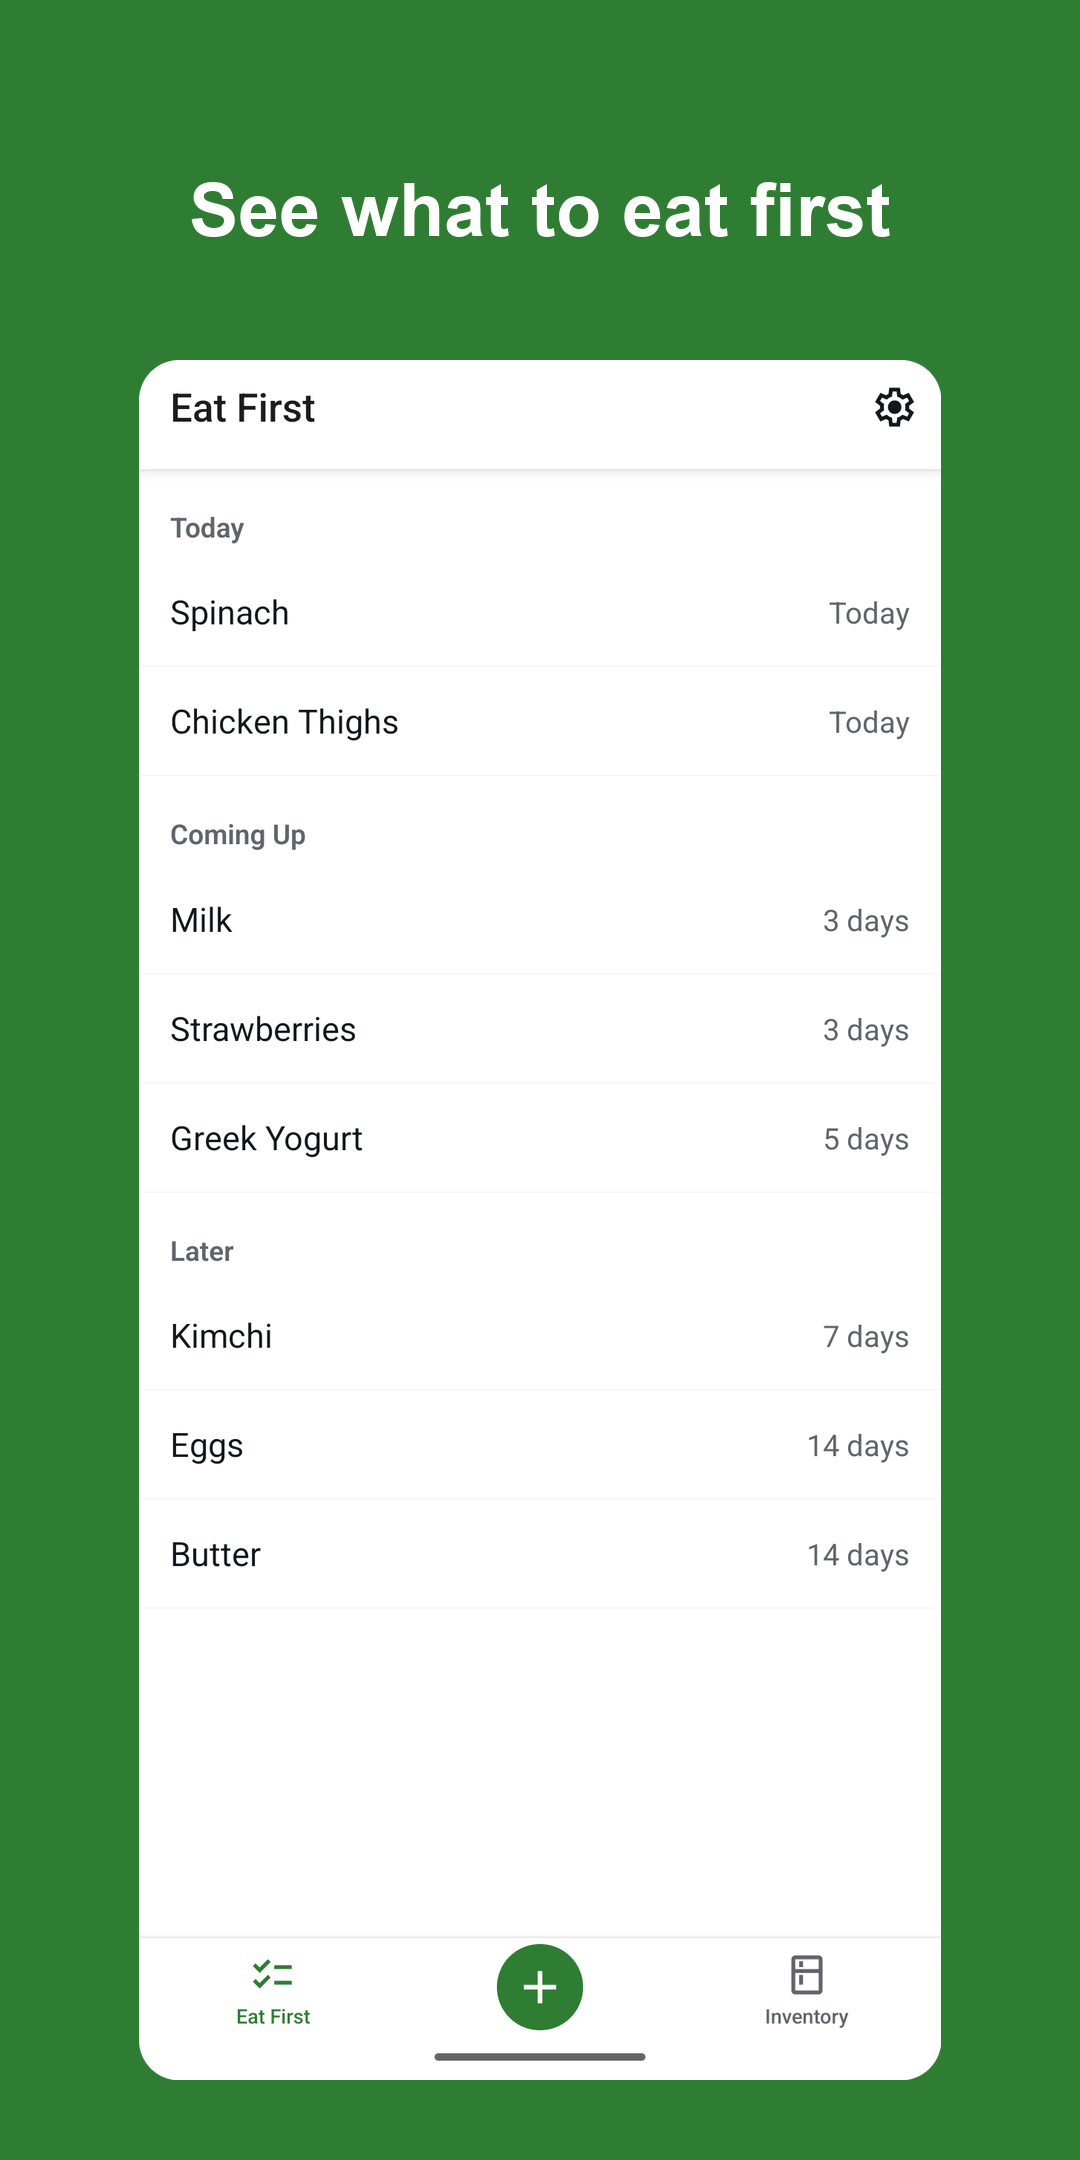
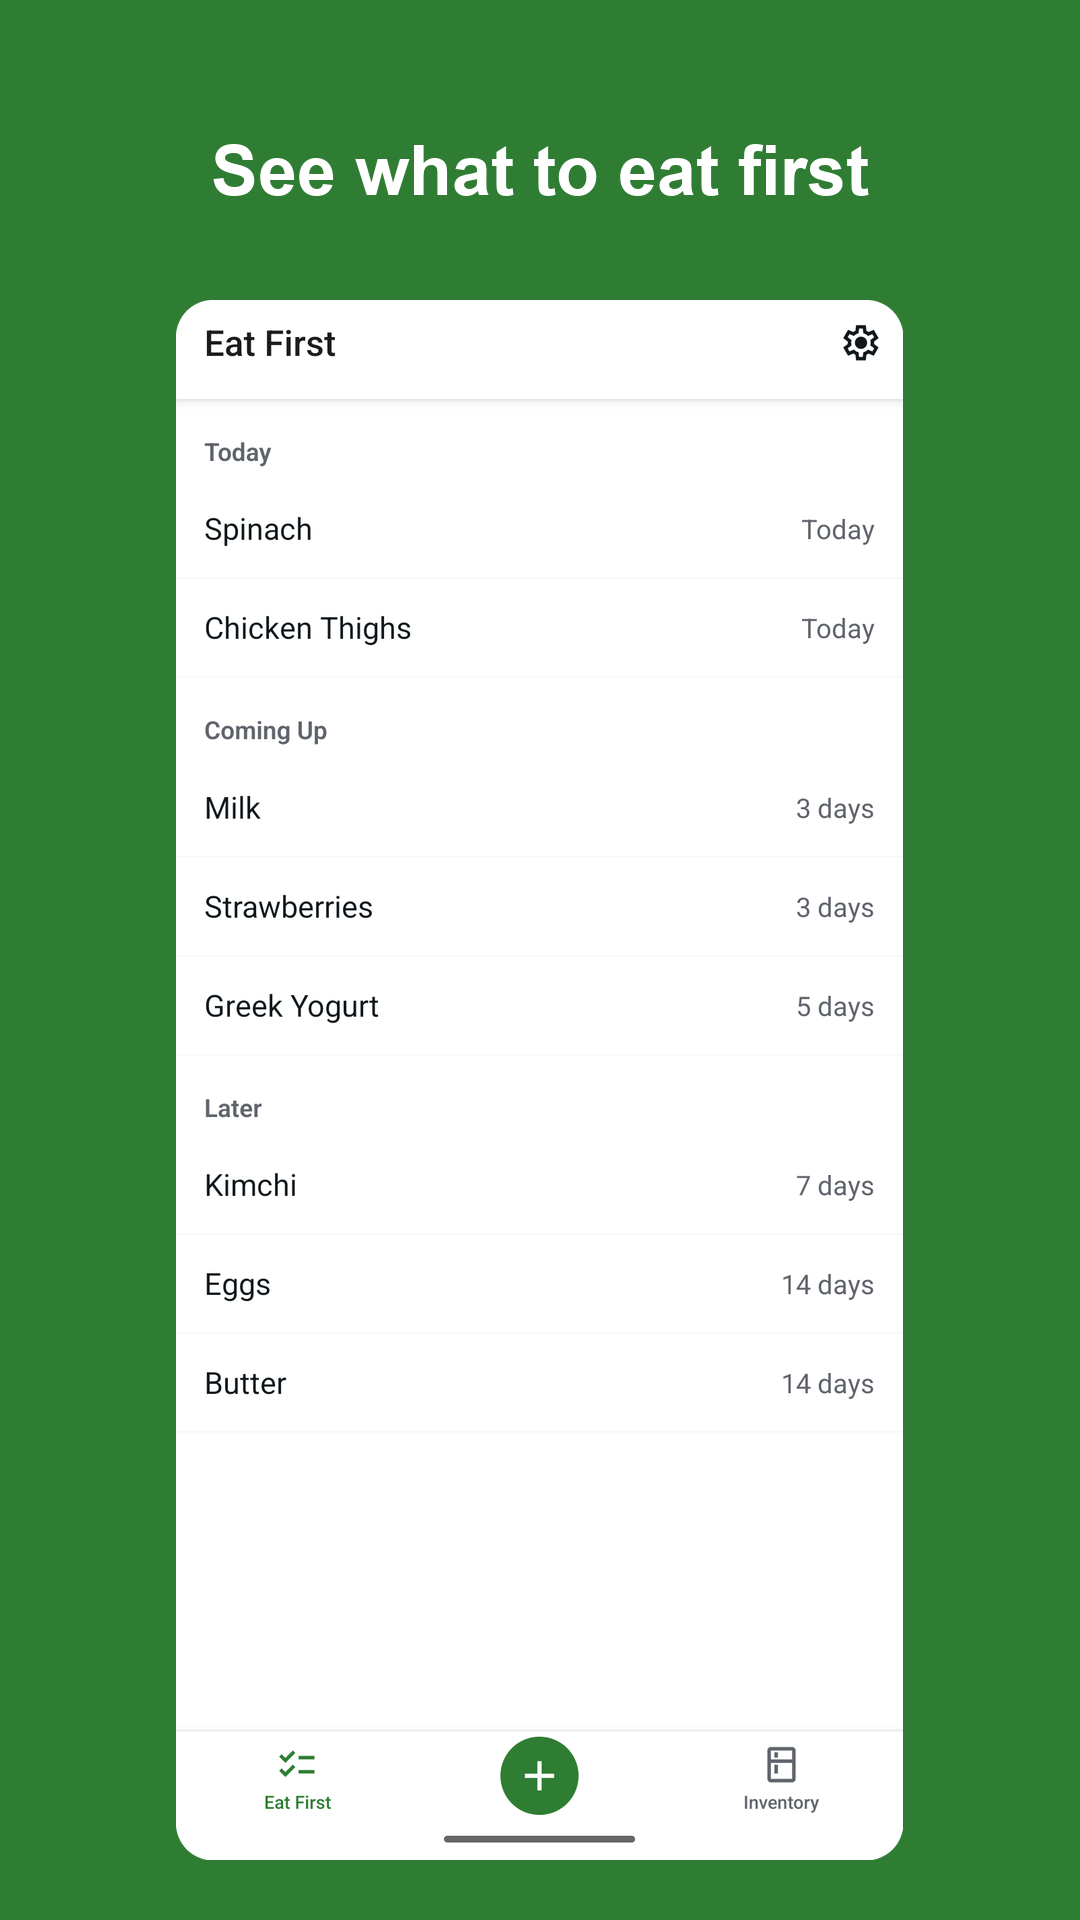
Store assets: 9:16 screenshots; data safety notes match AdMob disclosure
Play rejects phone screenshots that aren't exactly 16:9 or 9:16, so the framed
screenshots are now 1080x1920. Closed test 1 (1.0.0) submitted for review.

diff --git a/store/play-console.md b/store/play-console.md
@@ -70,10 +70,13 @@ https://developers.google.com/admob/android/privacy/play-data-disclosure
 
 - 위치 → 대략적인 위치 (IP 기반)
 - 앱 활동 → 앱 상호작용 (광고 노출·클릭)
-- 앱 정보 및 성능 → 비정상 종료 로그, 진단 정보
+- 앱 정보 및 성능 → 진단
 - 기기 또는 기타 ID → 광고 ID
 
 ## 6. 테스트 → 프로덕션
+
+상태 (2026-10-06): 앱 생성·앱 콘텐츠·스토어 등록정보 완료, Alpha 트랙(대한민국·미국, 테스터 Owner)에 1 (1.0.0) 올리고 **검토 제출함**.
+
 
 1. 비공개 테스트(Closed testing) 트랙 만들기 → AAB 업로드 → 테스터 이메일 목록 또는 Google 그룹 추가
 2. 신규 개인 개발자 계정: 테스터 12명 이상이 14일 연속 참여해야 프로덕션 신청 가능 (Play Console에서 현재 기준 확인)

diff --git a/store/listing.md b/store/listing.md
@@ -1,6 +1,6 @@
 # Play Store listing — Eat First
 
-Graphics in this folder: `icon-512.png` (app icon), `feature-graphic.png` (1024×500), `screenshots/*.png` (1080×2160).
+Graphics in this folder: `icon-512.png` (app icon), `feature-graphic.png` (1024×500), `screenshots/*.png` (1080×1920 — Play phone screenshots must be exactly 9:16).
 Regenerate icon + feature graphic with `python scripts/make_icons.py`.
 
 ## English (default)
